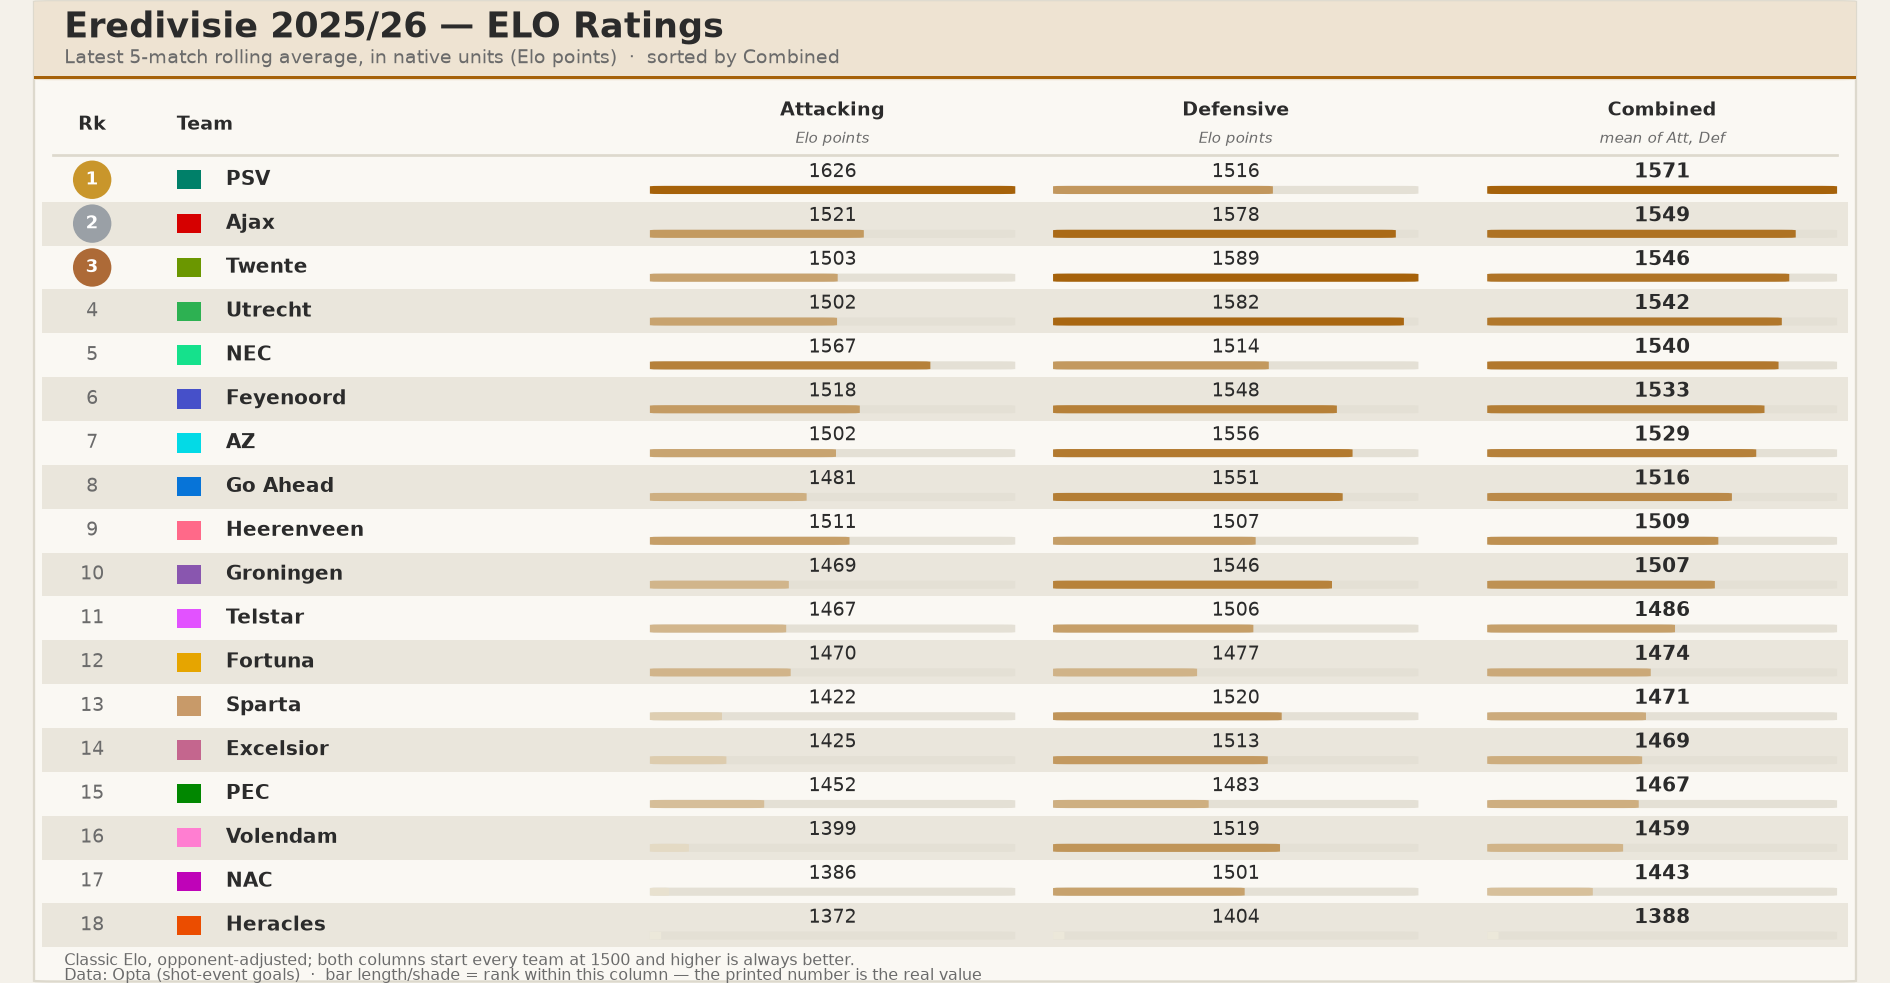
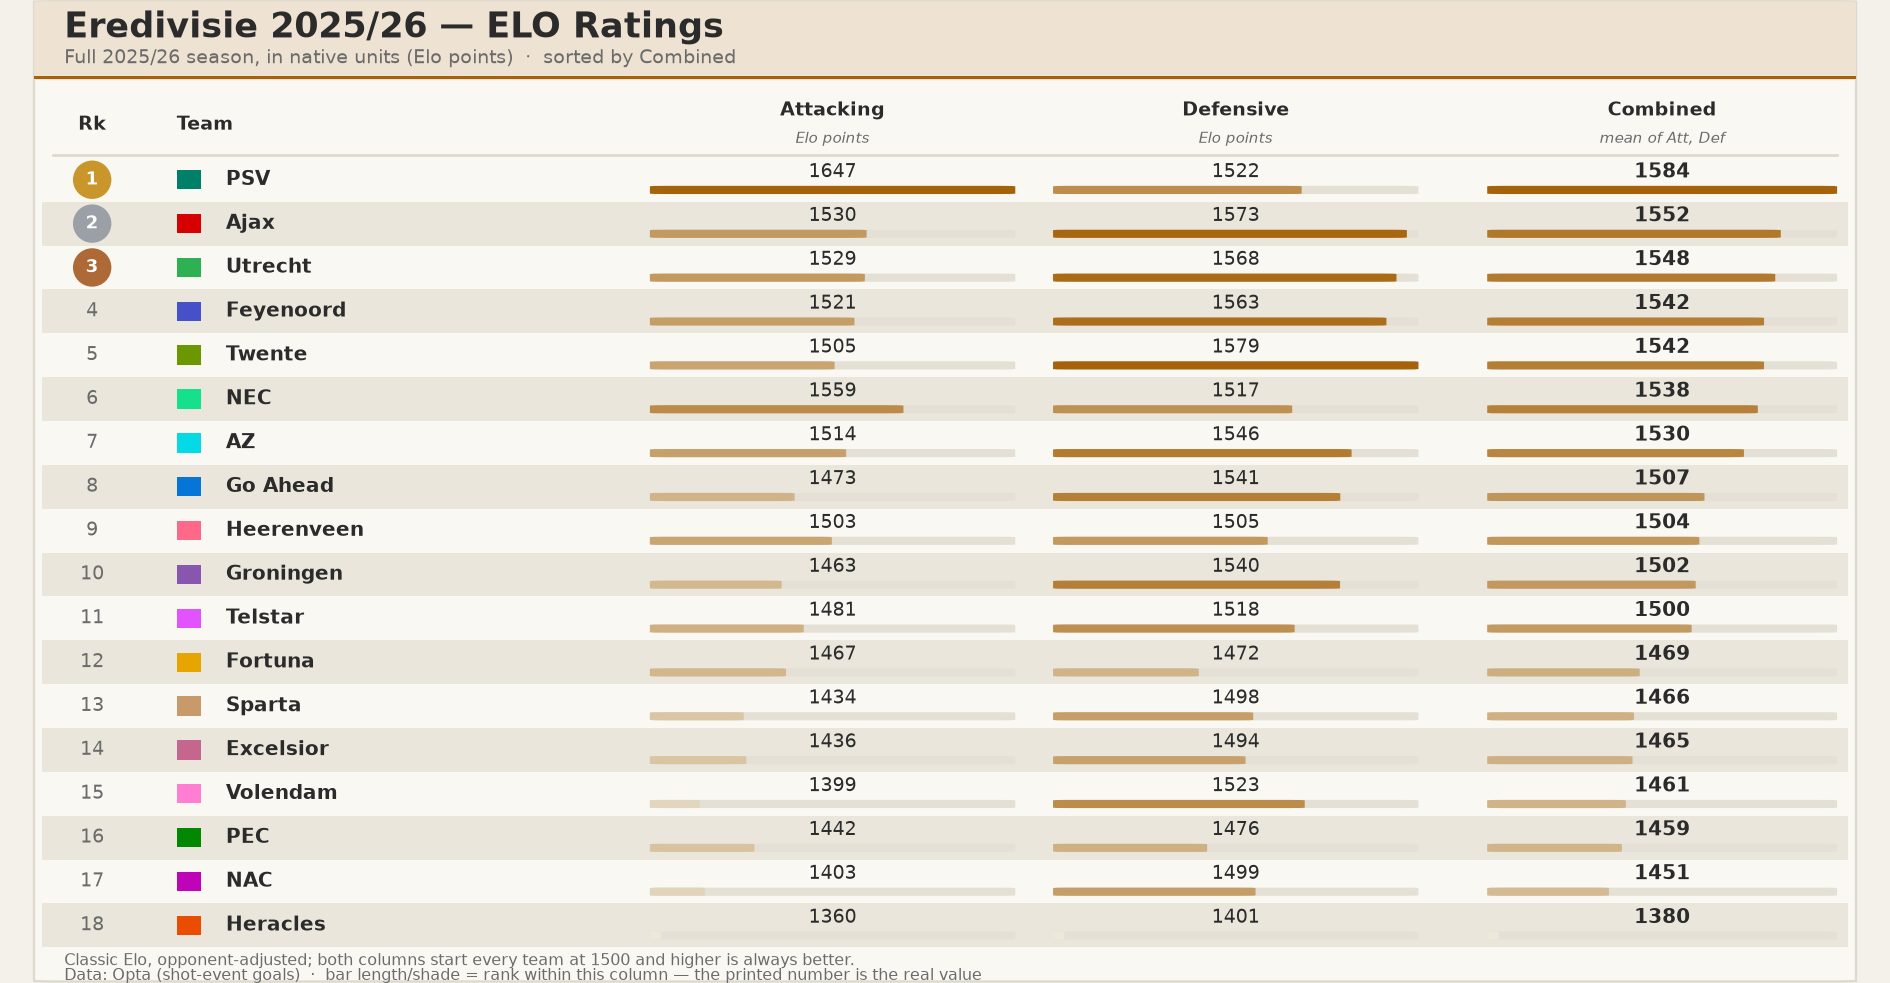
Use whole-season values in the ratings tables, not a 5-match snapshot
The tables were showing each team's latest 5-match rolling average as its
"current" rating, which only reflects recent form, not the season overall.
Added compute_all_systems_native_season() to ratings_common.py: ELO/Glicko-2/
Base-70 already accumulate every match played, so their season value is just
the final rating; PI has no memory between matches, so its season value is
the mean goal rate across all matches played, not just the last few. The
trend charts in top3_ratings.py are unchanged - they still show recent-form
rolling averages over time, which is what a trend chart is for.

diff --git a/Scripts/ratings_table.py b/Scripts/ratings_table.py
@@ -18,6 +18,11 @@ that table's column header and footnote instead of being hidden by rescaling.
 Each metric cell shows the real value with a proportional data-bar underneath
 (length + shade = that team's rank within the column, in the system's own
 accent color — the same accent used for that system's line in top3_ratings.py).
+
+Values are whole-season (all matches played in 2025/26), not a recent-form
+snapshot: ELO/Glicko-2/Base-70 already accumulate every match, so their
+season value is just the rating after the last one; PI has no memory between
+matches, so its season value is the mean goal rate across every match played.
 """
 import numpy as np
 import pandas as pd
@@ -25,7 +30,7 @@ import matplotlib.pyplot as plt
 import matplotlib.patches as mpatches
 from matplotlib.colors import to_rgb
 
-from ratings_common import compute_all_systems_native, METHOD_ORDER
+from ratings_common import compute_all_systems_native_season, METHOD_ORDER
 
 OUT_DIR = 'Visuals/Rating'
 
@@ -141,8 +146,7 @@ def build_table(systems, teams, method):
     cfg = SYSTEM_CONFIG[method]
     rows = []
     for t in teams:
-        att = systems[method][t]['att'].iloc[-1]
-        deff = systems[method][t]['def'].iloc[-1]
+        att, deff = systems[method][t]
         rows.append(dict(team=t, att=att, deff=deff, composite=cfg['composite_fn'](att, deff)))
     df = pd.DataFrame(rows).sort_values('composite', ascending=False).reset_index(drop=True)
     df.index += 1
@@ -193,7 +197,7 @@ def plot_table(df, method):
     ax.text(pad_x, title_h * 0.36, f"Eredivisie 2025/26 — {cfg['title']}",
             ha='left', va='center', color=Q_INK, fontsize=17, fontweight='bold', zorder=2)
     ax.text(pad_x, title_h * 0.74,
-            f"Latest 5-match rolling average, in native units ({cfg['unit']})  ·  sorted by {cfg['composite_label']}",
+            f"Full 2025/26 season, in native units ({cfg['unit']})  ·  sorted by {cfg['composite_label']}",
             ha='left', va='center', color=Q_MUTED, fontsize=9.2, zorder=2)
 
     edges = col_edges()
@@ -296,7 +300,7 @@ def plot_table(df, method):
 
 
 def main():
-    systems, teams, league_avg = compute_all_systems_native()
+    systems, teams, league_avg = compute_all_systems_native_season()
     for method in METHOD_ORDER:
         df = build_table(systems, teams, method)
         plot_table(df, method)

diff --git a/Scripts/ratings_common.py b/Scripts/ratings_common.py
@@ -301,3 +301,29 @@ def compute_all_systems_native():
     systems_raw, teams, league_avg = _load_and_compute(pi_invert_defense=False)
     systems = {name: smooth_native(hist) for name, hist in systems_raw.items()}
     return systems, teams, league_avg
+
+
+# ── 3c. whole-season value per team (not a snapshot of recent form) ────────
+# ELO/Glicko-2/Base-70 already accumulate every match played, so their
+# "whole season" value is simply their rating after the last match. PI has
+# no memory between matches, so its whole-season value is the mean goal
+# rate across every match played, not just the most recent ones.
+def season_native(hist, method):
+    out = {}
+    for t, series in hist.items():
+        df_t = pd.DataFrame(series, columns=['date', 'att', 'def'])
+        if method == 'PI':
+            out[t] = (df_t['att'].mean(), df_t['def'].mean())
+        else:
+            out[t] = (df_t['att'].iloc[-1], df_t['def'].iloc[-1])
+    return out
+
+
+def compute_all_systems_native_season():
+    """Whole-2025/26-season value per team/system, in native units (no
+    rescaling, no recent-form windowing). Returns (systems, teams, league_avg)
+    where systems: {method_name: {team: (att_value, def_value)}}.
+    """
+    systems_raw, teams, league_avg = _load_and_compute(pi_invert_defense=False)
+    systems = {name: season_native(hist, name) for name, hist in systems_raw.items()}
+    return systems, teams, league_avg
